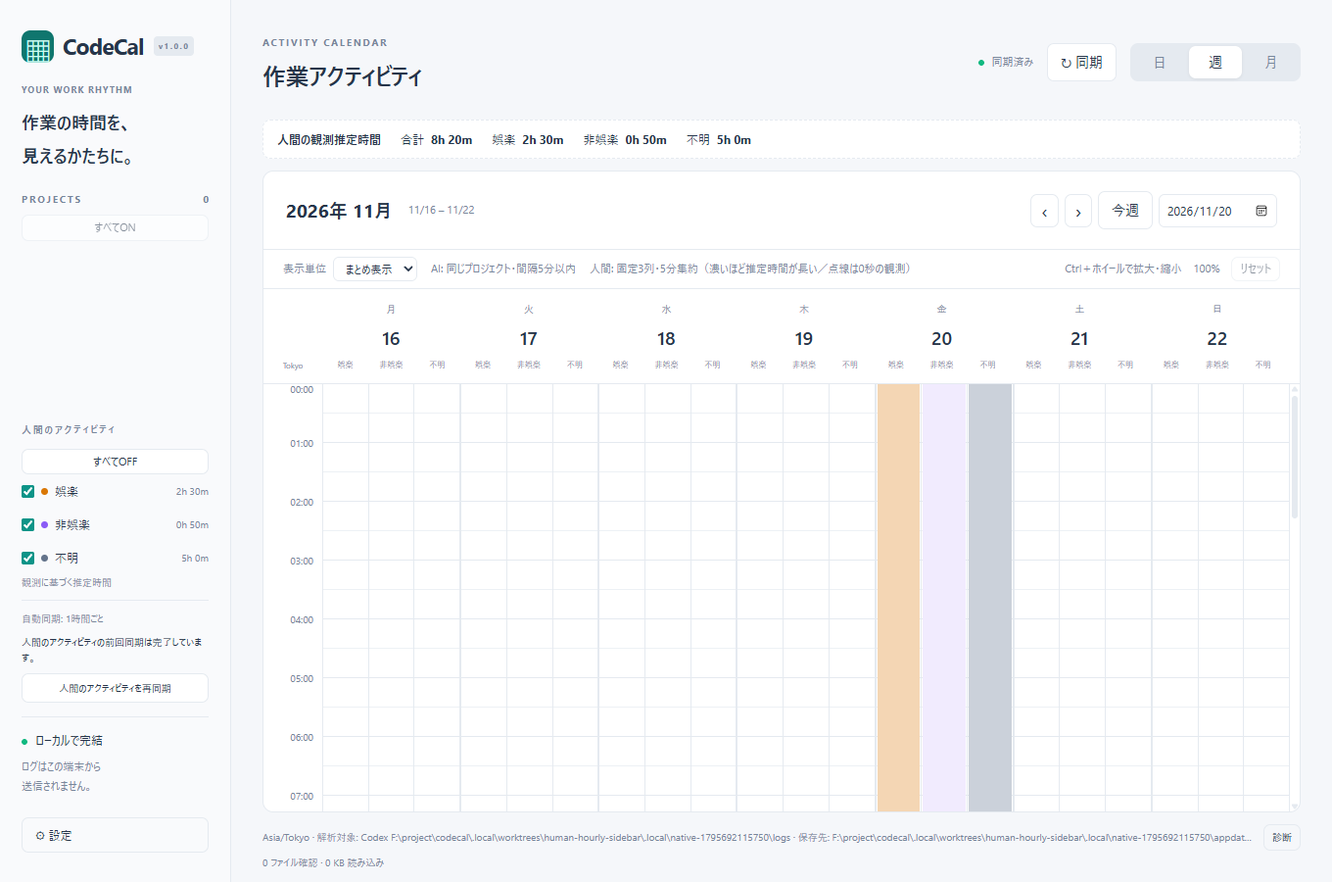
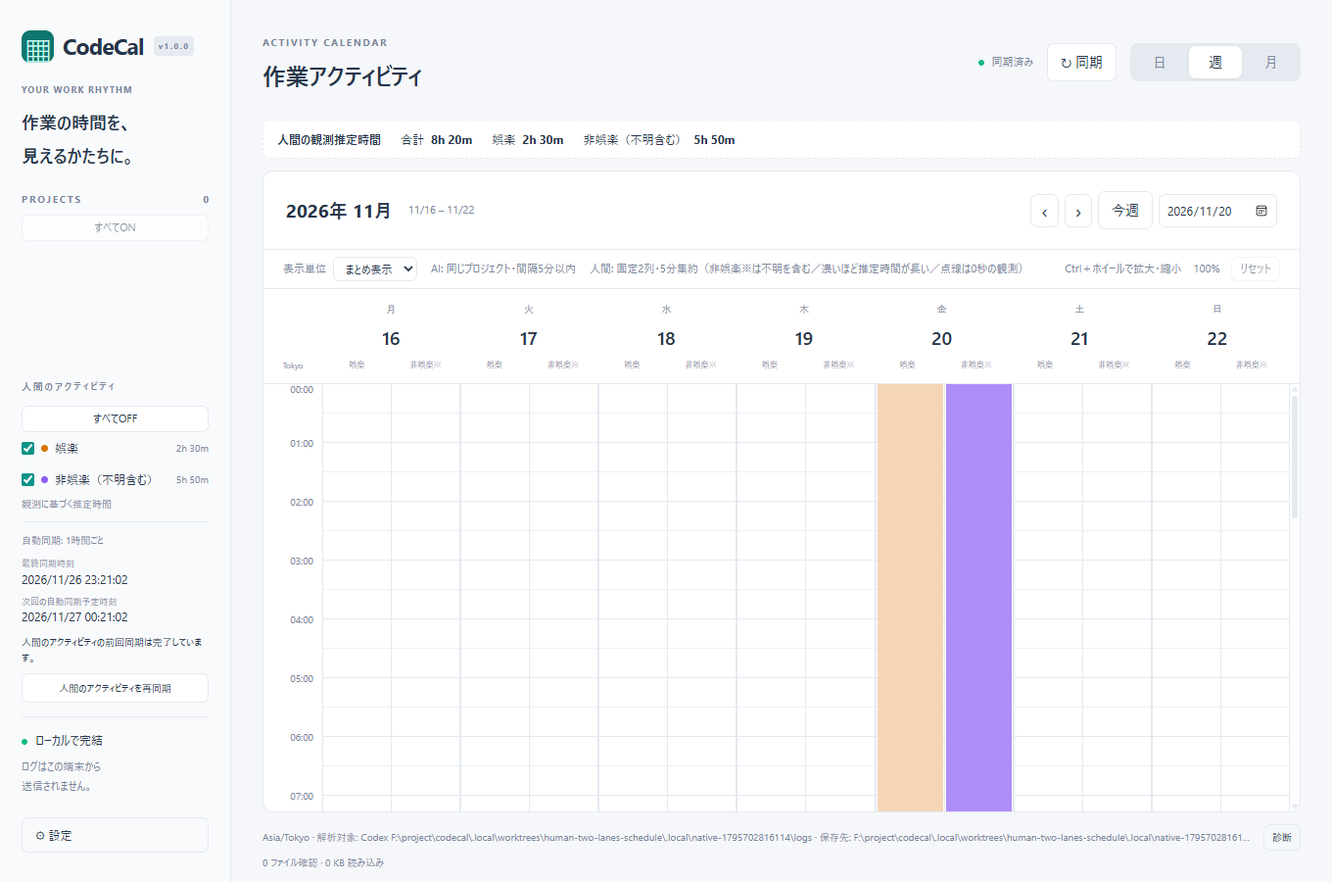
test: verify two human groups and readable sync times on Windows

diff --git a/tests/e2e/native.spec.ts b/tests/e2e/native.spec.ts
@@ -197,8 +197,8 @@ test("human settings: legacy memory database, isolated IPC, WAL updates, OFF res
     try {
       await ipc("sync_logs");
       await page.getByLabel("表示日").fill("2026-11-20");
-      await expect(page.locator(".human-block")).toHaveCount(4);
-      await expect(page.locator(".human-time-lane")).toHaveCount(21);
+      await expect(page.locator(".human-block")).toHaveCount(3);
+      await expect(page.locator(".human-time-lane")).toHaveCount(14);
       const ai = page.getByRole("button", { name: /^AI overlap 10:00/ });
       const entertainment = page.getByRole("button", { name: /^人間 娯楽 / });
       await expect(ai).toBeVisible();
@@ -255,10 +255,12 @@ test("human settings: legacy memory database, isolated IPC, WAL updates, OFF res
       await page.keyboard.press("Escape");
       await page.getByLabel("ブロックの表示単位").selectOption("group");
       await expect(entertainment).toHaveCount(1);
-      await page.getByRole("button", { name: /^人間 不明 .*点の観測/ }).click();
+      await page
+        .getByRole("button", { name: /^人間 非娯楽（不明含む） .*点の観測/ })
+        .click();
       await expect(
         page.getByRole("dialog", { name: "人間のアクティビティ（推定）" }),
-      ).toContainText("0h 0m 0.000s");
+      ).toContainText("0h 0m 1.000s");
       await page.keyboard.press("Escape");
       await page
         .getByRole("button", { name: "プロジェクトをすべてOFF", exact: true })
@@ -285,7 +287,7 @@ test("human settings: legacy memory database, isolated IPC, WAL updates, OFF res
       expect(list!.y + list!.height).toBeLessThanOrEqual(640);
       expect(settings!.y + settings!.height).toBeLessThanOrEqual(640);
       const unknown = page.getByRole("checkbox", {
-        name: "人間の不明を表示",
+        name: "人間の非娯楽（不明含む）を表示",
         exact: true,
       });
       await unknown.focus();
@@ -295,7 +297,7 @@ test("human settings: legacy memory database, isolated IPC, WAL updates, OFF res
         .getByRole("button", { name: "人間の種別をすべてON", exact: true })
         .click();
       await page.getByRole("button", { name: "日", exact: true }).click();
-      await expect(page.locator(".human-time-lane")).toHaveCount(3);
+      await expect(page.locator(".human-time-lane")).toHaveCount(2);
       const dayCell = page.getByRole("button", { name: /^人間 娯楽 / });
       await dayCell.scrollIntoViewIfNeeded();
       await dayCell.focus();
@@ -304,7 +306,7 @@ test("human settings: legacy memory database, isolated IPC, WAL updates, OFF res
       await page.keyboard.press("Escape");
       await page.screenshot({ path: "test-results/human-bands-day.png" });
       await page.getByRole("button", { name: "週", exact: true }).click();
-      await expect(page.locator(".human-time-lane")).toHaveCount(21);
+      await expect(page.locator(".human-time-lane")).toHaveCount(14);
       for (const theme of ["light", "dark"]) {
         await page.getByRole("button", { name: "設定", exact: true }).click();
         await page.getByLabel("テーマ", { exact: true }).selectOption(theme);
@@ -660,17 +662,21 @@ test("human month: dense observations, independent bars and filtered day records
       cell.getByRole("img", { name: "娯楽 推定 0h 4m", exact: true }),
     ).toBeVisible();
     await expect(
-      cell.getByRole("img", { name: "非娯楽 推定 0h 1m", exact: true }),
+      cell.getByRole("img", {
+        name: "非娯楽（不明含む） 推定 0h 1m",
+        exact: true,
+      }),
     ).toBeVisible();
-    await expect(
-      cell.getByRole("img", { name: "不明 推定 0h 0m 点の観測", exact: true }),
-    ).toBeVisible();
+    await expect(cell.getByRole("img")).toHaveCount(2);
     const longCell = page.getByRole("button", { name: /^2026-11-21 / });
     await expect(
       longCell.getByRole("img", { name: "娯楽 推定 4h 0m", exact: true }),
     ).toBeVisible();
     await expect(
-      longCell.getByRole("img", { name: "非娯楽 推定 2h 0m", exact: true }),
+      longCell.getByRole("img", {
+        name: "非娯楽（不明含む） 推定 2h 0m",
+        exact: true,
+      }),
     ).toBeVisible();
     await expect(page.locator(".empty-state")).toHaveCount(0);
     await cell.click();
@@ -697,9 +703,14 @@ test("human month: dense observations, independent bars and filtered day records
     ).toHaveCount(2);
     await dialog.getByRole("button", { name: "閉じる", exact: true }).click();
     await page
-      .getByRole("checkbox", { name: "人間の非娯楽を表示", exact: true })
+      .getByRole("checkbox", {
+        name: "人間の非娯楽（不明含む）を表示",
+        exact: true,
+      })
       .uncheck();
-    await expect(cell.getByRole("img", { name: /^非娯楽 / })).toHaveCount(0);
+    await expect(
+      cell.getByRole("img", { name: /^非娯楽（不明含む） / }),
+    ).toHaveCount(0);
     await cell.click();
     dialog = page.getByRole("dialog", {
       name: "2026-11-20 のアクティビティ",
@@ -713,10 +724,17 @@ test("human month: dense observations, independent bars and filtered day records
       human.getByRole("button", { name: /^人間 娯楽 / }),
     ).toHaveCount(2);
     await expect(
-      human.getByRole("button", { name: /^人間 非娯楽 / }),
+      human.getByRole("button", { name: /^人間 非娯楽（不明含む） / }),
     ).toHaveCount(0);
     await expect(human.getByTestId("human-total")).toHaveText("0h 4m");
-    await human.getByRole("button", { name: /^人間 不明 / }).click();
+    await dialog.getByRole("button", { name: "閉じる", exact: true }).click();
+    await page
+      .getByRole("button", { name: "人間の種別をすべてON", exact: true })
+      .click();
+    await cell.click();
+    await human
+      .getByRole("button", { name: /^人間 非娯楽（不明含む） .*点の観測/ })
+      .click();
     const detail = page.getByRole("dialog", {
       name: "人間のアクティビティ（推定）",
       exact: true,
@@ -725,9 +743,6 @@ test("human month: dense observations, independent bars and filtered day records
     for (const forbidden of [marker, humanRoot, "dense-", "UNCERTAIN"])
       await expect(detail).not.toContainText(forbidden);
     await page.keyboard.press("Escape");
-    await page
-      .getByRole("button", { name: "人間の種別をすべてON", exact: true })
-      .click();
     const viewport = await page.evaluate(() => ({
       width: innerWidth,
       height: innerHeight,
@@ -1030,8 +1045,8 @@ test("human performance: native synchronization keeps navigation responsive with
       page.getByRole("button", { name: "日", exact: true }),
     ).toHaveAttribute("aria-pressed", "true");
     await page.getByLabel("表示日").fill("2026-11-01");
-    await expect(page.locator(".human-time-lane")).toHaveCount(3);
-    expect(await page.locator(".human-block").count()).toBeLessThanOrEqual(864);
+    await expect(page.locator(".human-time-lane")).toHaveCount(2);
+    expect(await page.locator(".human-block").count()).toBeLessThanOrEqual(576);
     await page.locator(".human-block").first().click();
     await expect(
       page.getByRole("dialog", { name: "人間のアクティビティ（推定）" }),
@@ -1987,10 +2002,10 @@ test("human bands: dense day/week lanes, duration coverage and keyboard details"
       exact: true,
     });
     if (await allHumanOn.count()) await allHumanOn.click();
-    await expect(page.locator(".human-time-cell")).toHaveCount(301, {
+    await expect(page.locator(".human-time-cell")).toHaveCount(201, {
       timeout: 40000,
     });
-    await expect(page.locator(".human-time-lane")).toHaveCount(3);
+    await expect(page.locator(".human-time-lane")).toHaveCount(2);
     await expect(
       page.getByRole("region", { name: "表示期間の集計" }),
     ).toHaveCount(0);
@@ -1998,6 +2013,18 @@ test("human bands: dense day/week lanes, duration coverage and keyboard details"
       .getByRole("region", { name: "人間のアクティビティ", exact: true })
       .getByRole("region", { name: "人間のアクティビティ同期", exact: true });
     await expect(sidebarSync).toContainText("1時間ごと");
+    await expect(sidebarSync.locator("time")).toHaveCount(2);
+    const syncTimes = await sidebarSync
+      .locator("time")
+      .evaluateAll((els) =>
+        els.map((el) => Date.parse(el.getAttribute("datetime")!)),
+      );
+    expect(syncTimes[1] - syncTimes[0]).toBeGreaterThan(3595000);
+    expect(syncTimes[1] - syncTimes[0]).toBeLessThan(3605000);
+    for (const time of await sidebarSync.locator("time").all()) {
+      expect((await time.boundingBox())!.height).toBeLessThanOrEqual(20);
+    }
+
     await expect(page.locator(".workspace .human-sync")).toHaveCount(0);
     const normalViewport =
       page.viewportSize() ??
@@ -2039,8 +2066,8 @@ test("human bands: dense day/week lanes, duration coverage and keyboard details"
       .evaluateAll((els) => els.map((el) => el.getAttribute("aria-label")));
     await page.screenshot({ path: "test-results/human-bands-dense-day.png" });
     await page.getByRole("button", { name: "週", exact: true }).click();
-    await expect(page.locator(".human-time-lane")).toHaveCount(21);
-    await expect(page.locator(".human-time-cell")).toHaveCount(301);
+    await expect(page.locator(".human-time-lane")).toHaveCount(14);
+    await expect(page.locator(".human-time-cell")).toHaveCount(201);
     expect(
       await page
         .locator(".human-time-cell")
@@ -2048,13 +2075,13 @@ test("human bands: dense day/week lanes, duration coverage and keyboard details"
     ).toEqual(labels);
     await page.screenshot({ path: "test-results/human-bands-dense-week.png" });
     const unknown = page.getByRole("checkbox", {
-      name: "人間の不明を表示",
+      name: "人間の非娯楽（不明含む）を表示",
       exact: true,
     });
     await unknown.uncheck();
-    await expect(page.locator(".human-time-lane")).toHaveCount(21);
+    await expect(page.locator(".human-time-lane")).toHaveCount(14);
     await expect(
-      page.locator('.human-time-lane[data-kind="unknown"] button'),
+      page.locator('.human-time-lane[data-kind="other"] button'),
     ).toHaveCount(0);
     const missingRoot = path.join(root, "missing-human-source");
     mkdirSync(missingRoot, { recursive: true });

diff --git a/src/styles.css b/src/styles.css
@@ -73,7 +73,12 @@ select {
   margin: 0 0 8px;
 }
 .human-sync-times {
+  display: block;
   margin: 8px 0;
+}
+.human-sync-times time {
+  white-space: nowrap;
+  font-variant-numeric: tabular-nums;
 }
 .human-sync-times dt {
   color: var(--muted);
@@ -369,6 +374,11 @@ h3 {
 }
 .human-filter-list .project-filter {
   padding: 8px 0;
+}
+.human-filter-list .project-name {
+  white-space: normal;
+  overflow-wrap: anywhere;
+  line-height: 1.4;
 }
 .human-filter-list .hint {
   font-size: 10px;

diff --git a/docs/human-activity-design.md b/docs/human-activity-design.md
@@ -167,14 +167,24 @@ CodeCalは設定済みReiディレクトリのstorage.dbを優先する。read-o
 
 2ファイルの記録を合算せず、選択した論理ファイルパスと物理ファイルIDで履歴を分離する。切替時は保持接続とdata_versionを破棄する。人間機能ONでは両DBとWALだけを非再帰監視し、OFFではmemory.dbの監視を外す。「現在ソース」の削除は設定済みReiディレクトリの2ファイルに対応する全世代のキャッシュと管理stagingを対象とし、他ディレクトリ・AI履歴・原本は保持する。既存キャッシュの再利用と欠落時保持は従来通りで、修正版の利用に原本の変更やキャッシュ削除は不要。
 
-## 日・週の固定3列・5分集約
+## 日・週の固定2列・5分集約
 
-日・週のタイムラインは娯楽・非娯楽・不明の固定3列を同じ順序で表示する。AIは隣の領域に独立配置し、人間の観測数でAIの幅や重なりレーンを増やさない。種別を非表示にしても列位置は保持する。人間だけを表示中は人間の帯を全幅にし、AIの0値カードを隠す。
+日・週のタイムラインは娯楽・非娯楽（不明含む）の固定2列を同じ順序で表示する。AIは隣の領域に独立配置し、人間の観測数でAIの幅や重なりレーンを増やさない。種別を非表示にしても列位置は保持する。人間だけを表示中は人間の帯を全幅にし、AIの0値カードを隠す。
 
 `human_activity` に `binned: true` を渡すと、現在選択中のソースの最小化キャッシュを索引順に走査し、5分枠内の各種別の区間和集合、全種別の和集合、0秒観測の有無だけを返す。記録配列は空にし、元の観測ID・本文・判定文字列を返さない。従来の5万行上限は記録一覧APIに残すが、この集約は観測数によらず期間の枠数で応答量を制限する。キャッシュ形式やReiへのアクセス方法は変更しない。
 
 枠は指定タイムゾーンの各日の開始から実経過時間5分刻みとする。23/25時間の日は276/300枠、通常日は288枠。日付境界で区切り、表示範囲外の時間は加算しない。未観測は空白のままとし、同種別の重複を二重に数えず、種別間の重なりも保持する。
 
-色は枠内の推定時間が長いほど濃くし、微小な正の区間も見えるよう最低12%の色を付ける。不明の最大色は薄いグレー、0秒だけの枠は点線とし、推定時間は加算しない。クリックまたはキーボードで時間枠の開始・終了と表示中の種別別推定時間を確認できる。枠の末尾は元の観測の終了時刻を示さない。倍率は縦方向だけに作用し、集約単位・列数は変更しない。AIのまとめ表示設定と独立する。月の日別記録一覧は従来の詳細を保持する。
+色は枠内の推定時間が長いほど濃くし、微小な正の区間も見えるよう最低12%の色を付ける。0秒だけの枠は点線とし、推定時間は加算しない。クリックまたはキーボードで時間枠の開始・終了と表示中の種別別推定時間を確認できる。枠の末尾は元の観測の終了時刻を示さない。倍率は縦方向だけに作用し、集約単位・列数は変更しない。AIのまとめ表示設定と独立する。月の日別記録一覧は従来の詳細を保持する。
 
 人間の同期状態・エラー・診断件数・手動再同期ボタンは、左メニューの人間のアクティビティの種別フィルタ末尾にまとめる。自動更新のON/OFFと1時間間隔を表示し、高さが足りない場合はこのセクション内をスクロール可能にし、見出しを固定して設定への操作を妨げない。
+
+## 2分類の表示と同期時刻
+
+原分類の娯楽・非娯楽・不明はキャッシュと期間応答に保持し、日・週の列、月のバー、種別フィルタと種別集計は「娯楽」「非娯楽（不明含む）」の2分類に統一する。不明は観測済みの未確定分類で、空白は引き続き未観測を表す。個別記録の詳細では正規化された原分類を確認できる。
+
+5分枠と日別集計の `other_ms` は非娯楽と不明の区間和集合であり、個別の時間を足して重複を二重計上しない。0秒の点は時間に加算せず、同じ枠に正の区間があっても詳細とアクセシブル名で点の存在を説明する。最大日数・集約枠数とストリーミング処理は維持する。
+
+左メニューの同期欄に最終同期時刻と次回の自動同期予定時刻を設定タイムゾーンで表示する。最終時刻は正常な確認完了で更新し、変更なしでも既存のソースメタデータに保存する。失敗では更新しない。再起動時は現在の物理ソースに対応するキャッシュの成功時刻を復元し、別の保存先の時刻を混在させない。
+
+`next_auto_sync` は実際の試行完了から単調時計で1時間後の予定をUTCミリ秒へ投影する。自動OFF・同期中・初回待機では日時の代わりに状態を表示し、設定変更と状態イベントで更新する。再起動の初回確認と手動同期は即時で、再起動前の次回予定は引き継がない。キャッシュのスキーマ変更やReiの変更はない。

diff --git a/README.md b/README.md
@@ -2,9 +2,9 @@
 
 Rei が記録した人間のアクティビティを、AI履歴とは独立した日・週の時間帯、月の種別バー、日別一覧で表示できます。[日表示](docs/screenshots/human-bands-day.png)・[週表示](docs/screenshots/human-bands-week.png)の画面例は合成データです。[設計とプライバシー方針](docs/human-activity-design.md)、[性能計測](docs/human-activity-performance.md)、[フェーズ別テストリスト](docs/human-activity-test-list.md)を参照してください。
 
-設定で「人間のアクティビティ機能を有効にする」を ON にし、れいのデータディレクトリを指定します。人間の観測テーブルがある `storage.db` を優先し、従来構成の `memory.db` にも対応します。既定は OFF。「れいの AI 実行履歴を取り込む」と独立した設定です。人間の自動同期は1時間ごとで、ファイルの変更通知も次回までまとめます。手動同期・初回ON・保存先変更は即時です。同期状態と再同期ボタンは左メニューの人間セクション末尾にあります。保存成功後に反映し、OFF では原本読み取り・人間の期間取得を停止してキャッシュを保持します。種別は娯楽・非娯楽・不明で、非娯楽は仕事・生産性を意味せず、不明は観測済みの未確定分類です。未観測の空白は含みません。
+設定で「人間のアクティビティ機能を有効にする」を ON にし、れいのデータディレクトリを指定します。人間の観測テーブルがある `storage.db` を優先し、従来構成の `memory.db` にも対応します。既定は OFF。「れいの AI 実行履歴を取り込む」と独立した設定です。人間の自動同期は1時間ごとで、ファイルの変更通知も次回までまとめます。手動同期・初回ON・保存先変更は即時です。同期状態・最終同期時刻・次回の自動同期予定時刻と再同期ボタンは左メニューの人間セクション末尾にあります。時刻は設定タイムゾーンで表示し、最終同期は正常な確認（変更なしを含む）の時刻です。保存成功後に反映し、OFF では原本読み取り・人間の期間取得を停止してキャッシュを保持します。原分類は娯楽・非娯楽・不明を保持し、表示は「娯楽」「非娯楽（不明含む）」にまとめます。非娯楽は仕事・生産性を意味せず、不明は観測済みの未確定分類です。未観測の空白は含みません。
 
-人間の日・週は「娯楽・非娯楽・不明」の固定3列に5分単位で集約します。各枠の推定時間が長いほど濃く、不明は薄いグレー、未観測は空白、0秒の観測は点線で表示します。クリックすると時間帯の内訳を確認でき、ズームは時間方向だけを拡大します。AIの「まとめ表示 / 記録単位」は独立して切り替えられます。人間の3種別フィルタとAIプロジェクトフィルタは独立し、一覧の種別時間はフィルタ前の値です。人間の詳細には種別・日付・開始・終了・推定時間だけを表示します。ウィンドウ名、アプリ名、画像、観測IDや元の判定文字列は取得・表示しません。
+人間の日・週は「娯楽」「非娯楽（不明含む）」の固定2列に5分単位で集約します。各枠の推定時間が長いほど濃く、未観測は空白、0秒の観測は点線で表示します。クリックすると時間帯の内訳を確認でき、ズームは時間方向だけを拡大します。AIの「まとめ表示 / 記録単位」は独立して切り替えられます。人間の2分類フィルタとAIプロジェクトフィルタは独立し、一覧の種別時間はフィルタ前の値です。人間の詳細には種別・日付・開始・終了・推定時間だけを表示します。ウィンドウ名、アプリ名、画像、観測IDや元の判定文字列は取得・表示しません。
 
 観測の開始から Rei の推定継続時間までを候補とし、次の観測の開始を越えないよう切り詰めます。間の空白は補完しません。0秒は観測点として表示します。日境界で分け、重複時間を除いた和集合を「観測推定時間」として表示します。AI時間へ加算せず、仕事時間・勤怠・生産性の評価にも使いません。月のバーは各日の実際の長さ（夏時間では23/25時間）に対する比率です。
 

diff --git a/docs/human-two-lanes-schedule-tests.md b/docs/human-two-lanes-schedule-tests.md
@@ -1,12 +1,16 @@
 # 人間の2列表示と同期予定時刻のテスト
 
-- [ ] 日・週・月のバーとフィルタ・集計を娯楽/非娯楽（不明含む）の2分類で揃え、原分類は保持
-- [ ] 非娯楽と不明の重複を二重加算せず、空白・点・日付境界・種別間の重なりを保持
-- [ ] 次回予定は実際の前回試行完了から1時間、自動OFF/同期中/初回待機では状態を説明
-- [ ] 最終成功時刻を変更なし確認でも更新し、原本欠落や再起動時には保存済み時刻を復元
-- [ ] 失敗で最終成功を更新せず、Root切替/OFF/取消しで別ソースの時刻を混在させない
-- [ ] 時刻を設定タイムゾーンで表示し、状態通知と自動更新ON/OFFで表示を更新
-- [ ] 低い画面と長いラベルでも見出し・同期・設定を操作できる
-- [ ] 全回帰/静的検査/ビルド/Windows native/合成画面確認
+- [x] 日・週・月のバーとフィルタ・集計を娯楽/非娯楽（不明含む）の2分類で揃え、原分類は保持
+- [x] 非娯楽と不明の重複を二重加算せず、空白・点・日付境界・種別間の重なりを保持
+- [x] 次回予定は実際の前回試行完了から1時間、自動OFF/同期中/初回待機では状態を説明
+- [x] 最終成功時刻を変更なし確認でも更新し、原本欠落や再起動時には保存済み時刻を復元
+- [x] 失敗で最終成功を更新せず、Root切替/OFF/取消しで別ソースの時刻を混在させない
+- [x] 時刻を設定タイムゾーンで表示し、状態通知と自動更新ON/OFFで表示を更新
+- [x] 低い画面と長いラベルでも見出し・同期・設定を操作できる
+- [x] 全回帰/静的検査/ビルド/Windows native/合成画面確認
 
 運用終了条件: PR CI/通常merge/postCI/main同期/専用worktreeとローカル・リモートブランチの通常削除。
+
+検証: Rust 139件（release / all-targets / human-benchmark、ローカルは直列）、Vitest 123件、Python 17件、release 9件。Windows nativeは全体実行18件成功後、2分類に合わせて月テストの重複操作を修正し、最終製品ビルドで人間の設定・月・日週3件を再実行して成功。計19ケースを確認した。同期時刻の折返し検出は旧ビルドで高さ73.56pxの失敗を確認し、修正後20px以下で成功した。
+
+型検査、ESLint、Prettier、cargo fmt、Clippy、Tauri NSISビルドが成功。合成1万件のworker測定はwriter予算内で後続更新も取得。日・週の画面例は合成60001件で、2列・重複なし集計・設定タイムゾーンの同期時刻を目視確認した。実ユーザーの原本は使用せず、Reiは変更していない。

diff --git a/docs/architecture.md b/docs/architecture.md
@@ -75,3 +75,5 @@ AIと人間の時間帯は共通の重なり配置を使い、詳細モデル・
 人間の保存先は固定2候補storage.db / memory.dbを、read-onlyのスキーマ照会だけで選ぶ。storage.dbの観測テーブルが優先され、AI専用storage.dbと主DataSource側memory.dbの組合せにも対応する。不正な観測テーブル・読取エラーは別DBへの切替理由にしない。
 
 workerの保持接続は選択パスと物理IDの両方を照合し、ファイル切替時に接続とdata_versionを破棄する。人間ONでは両DB/WALを非再帰監視し、監視対象の出現・置換も再確認する。現在ソースの削除とstaging回収は設定中ディレクトリの2ファイルの全世代を対象とする。
+
+人間の表示は娯楽/非娯楽（不明含む）の2分類で、原分類3種は保持する。日・5分枠に非娯楽と不明の区間和集合 `other_ms` を追加し、表示の二重加算を防ぐ。同期状態は保存済みの最終正常確認時刻と、単調時計の実スケジュールから計算した次回予定 `next_auto_sync` を公開する。いずれも時刻のみで識別情報は含めない。
